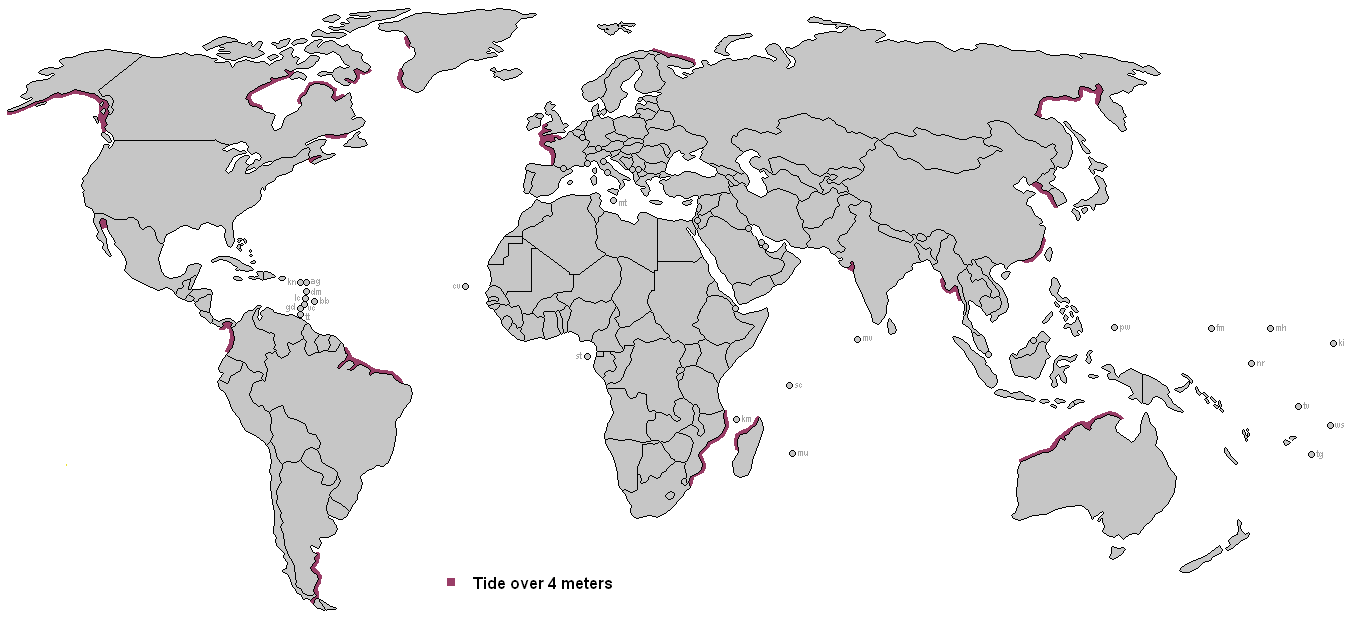
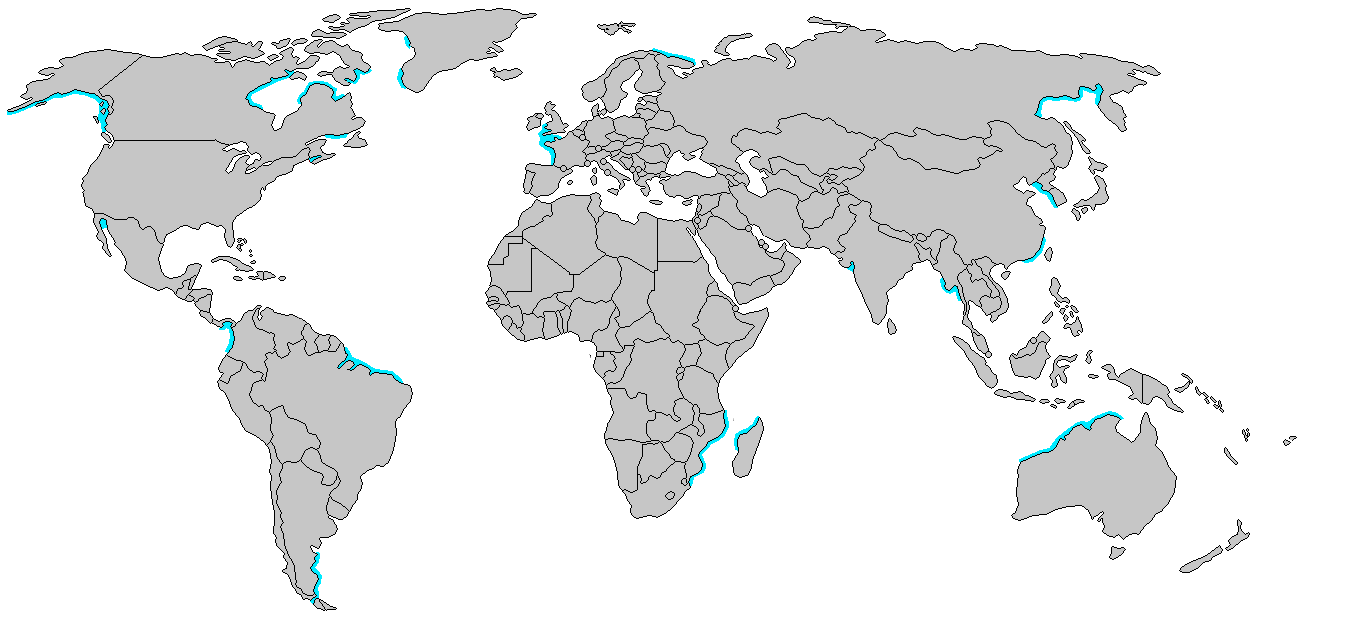
Profile image thumbnail bei audio ersetzt (bitte bei auch testen) + namen in impressum eingetragen + überflüssige bilder gelöscht + 04 Tides farben sichtbarer gemacht

diff --git a/praktikum_mediengestaltung/www/templates/impressum.html b/praktikum_mediengestaltung/www/templates/impressum.html
@@ -1,18 +1,34 @@
 <ion-view>
   <ion-content>
-    <h1>Impressum</h1>
-    <div class="water-text-wrapper">
-      <p>Die App »WASSER – wie es unsere Erde formt« erscheint anlässlich der gleichnamigen Fotoausstellung von Bernhard Edmaier. Sie wurde im Rahmen einer Kooperation zwischen der Ludwig-Maximilians-Universität München (LMU München) und dem Museum Mensch und Natur (MMN) entwickelt.</p>
-      <p>Konzeptidee und Umsetzung:<br>
-        <div class="todo">TODO: namen von uns</div>
-      <p>Namen der Studenten in alphabetischer Reihenfolge
-        unter Anleitung von Prof. Dr. Florian Alt und Daniel Buschek (Lehrstuhl für Angewandte Informatik und Medieninformatik, LMU)</p>
+    
+      <div class="water-text-wrapper">
+          <h1>Impressum</h1>
+          <p>Die App »WASSER – wie es unsere Erde formt« erscheint anlässlich der gleichnamigen Fotoausstellung von Bernhard Edmaier. Sie wurde im Rahmen einer Kooperation zwischen der Ludwig-Maximilians-Universität München (LMU München) und dem Museum Mensch und Natur (MMN) entwickelt.</p>
+      </div>
+       
+      <div class="water-text-wrapper">
+          <!--Namen Kontrolliern-->
+          <!--Namen der Studenten in alphabetischer Reihenfolge-->
+          <p>Konzeptidee und Umsetzung:
+              <br />
+              <br />Katharina Binder
+              <br />Peter Gleixner
+              <br />Alexander Kenkenberg
+              <br />Maximilian Körner
+              <br />Daniela Paulescu
+              <br />
+              <br />unter Anleitung von Prof. Dr. Florian Alt und Daniel Buschek (Lehrstuhl für Angewandte Informatik und Medieninformatik, LMU)
+          </p>
+      </div>
 
-      <p>Inhalte:<br>
-        Bernhard Edmaier<br>
-        Dr. Angelika Jung-Hüttl<br>
-        Dr. Gilla Simon (MMN)</p>
+      <div class="water-text-wrapper">
+          <p>Inhalte:<br>
+              <br />
+              Bernhard Edmaier<br>
+              Dr. Angelika Jung-Hüttl<br>
+              Dr. Gilla Simon (MMN)
+          </p>
+      </div>
 
-    </div>
   </ion-content>
 </ion-view>

diff --git a/praktikum_mediengestaltung/www/templates/hotspots/14_Hotspot.html b/praktikum_mediengestaltung/www/templates/hotspots/14_Hotspot.html
@@ -3,7 +3,7 @@
 
         <div class="water-text-wrapper">
             <!--richtiges Bild einfügen-->
-            <img src="img/high_res/test_01.jpg" alt="thumbnail" />
+            <img src="Hotspot_05_Wechselbild_PeritoMoreno_1" alt="thumbnail" />
             <h1>WASSER – und der Klimawandel</h1>
             <p>Der Klimawandel, die weltweit steigenden Temperaturen, verändert die Verteilung von flüssigen und gefrorenem Wasser, sowie von Wasserdampf auf der Erde. Viele Beobachtungen in verschieden Regionen unseres Planeten und Modellrechnungen deuten klar darauf hin: Die Erderwärmung heizt den Wasserkreislauf an. Mehr Wasser aus den Ozeanen verdunstet, mehr Niederschläge fallen über Land und damit nimmt auch der Abfluss des Wassers zu. Die Klimagürtel der Erde verschieben sich.</p>
 

diff --git a/praktikum_mediengestaltung/www/js/controllers/hotspots/02_HotspotController.js b/praktikum_mediengestaltung/www/js/controllers/hotspots/02_HotspotController.js
@@ -17,6 +17,7 @@ angular.module('water').controller('02_HotspotController', function ($scope, wat
     url: 'audio/Hotspot_02_Audio_Fotoflug_edit.mp3',
     artist: 'Frau Jung-Hüttl',
     title: 'Fotoflug mit Hindernissen',
-    art: 'img/profile.jpg'
+    //art: 'img/profile.jpg'
+    art: 'img/high_res/Hotspot_02.jpg'
   }
 });

diff --git a/praktikum_mediengestaltung/www/js/controllers/hotspots/12_HotspotController.js b/praktikum_mediengestaltung/www/js/controllers/hotspots/12_HotspotController.js
@@ -17,7 +17,7 @@ angular.module('water').controller('12_HotspotController', function ($scope, wat
     url: 'audio/Hotspot_12_Audio_schwer zugaenglich_edit.mp3',
     artist: 'Frau Jung-Hüttl',
     title: 'Schwer zugänglich',
-    art: 'img/profile.jpg'
+    art: 'img/high_res/Hotspot_12.jpg'
   }
 
 });

diff --git a/praktikum_mediengestaltung/www/js/controllers/hotspots/10_HotspotController.js b/praktikum_mediengestaltung/www/js/controllers/hotspots/10_HotspotController.js
@@ -16,7 +16,7 @@ angular.module('water').controller('10_HotspotController', function ($scope, wat
     url: 'audio/Hotspot_10_Audio_Sauerstoff_edit.mp3',
     artist: 'Frau Jung-Hüttl',
     title: 'Nicht ohne Sauerstoff',
-    art: 'img/profile.jpg'
+    art: 'img/high_res/Hotspot_10.jpg'
   }
 
 });

diff --git a/praktikum_mediengestaltung/www/js/controllers/hotspots/05_HotspotController.js b/praktikum_mediengestaltung/www/js/controllers/hotspots/05_HotspotController.js
@@ -17,7 +17,7 @@ angular.module('water').controller('05_HotspotController', function ($scope, wat
     url: 'audio/Hotspot_05_Audio_Geduld_edit.mp3',
     artist: 'Frau Jung-Hüttl',
     title: 'Geduld Geduld Geduld',
-    art: 'img/profile.jpg'
+    art: 'img/high_res/Hotspot_05.jpg'
   }
 
 });
